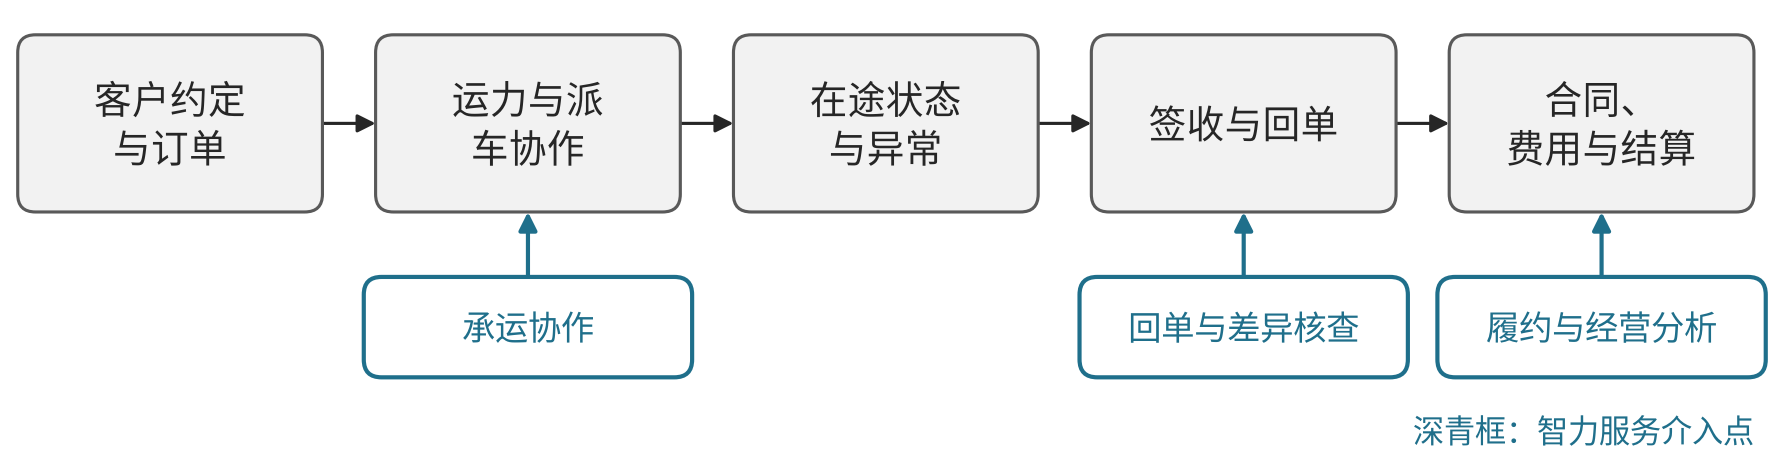
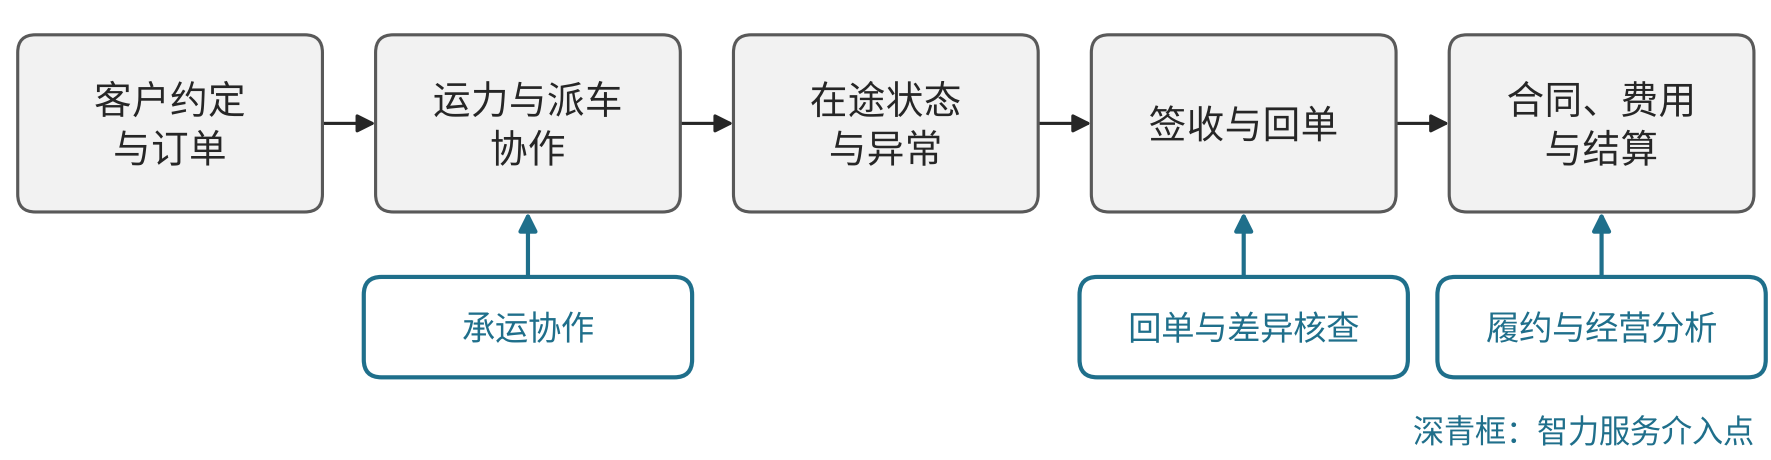
图示：框内文字碰撞检测与按词换行，修正23张图；I01指引句移到“占20.9%。[2]”后

Changed region(s): [[0.8385, 0.1826, 0.9627, 0.3652], [0.2484, 0.1826, 0.3727, 0.3652]]

diff --git a/scripts/figures/figlib.py b/scripts/figures/figlib.py
@@ -22,21 +22,47 @@ plt.rcParams['font.family'] = FONT
 plt.rcParams['axes.unicode_minus'] = False
 
 
+ISSUES = []          # 渲染后仍溢出的文字，由 render.py 汇总
+MIN_FS = 7.0         # 自动缩字号下限 pt
+PAD = 0.08           # 文字距框边最小留白 cm
+
+
+def max_chars(width_cm, fs=FS):
+    """框内一行可容纳的最大字数（中文按全角字宽≈字号计，留 8% 余量）。"""
+    return max(2, int(width_cm / (fs * CM_PER_PT * 1.08)))
+
+
+try:
+    import jieba; jieba.setLogLevel(60)
+    for w in ('派车', '差异', '委托', '智力服务', '维保', '一张图', '台账', '工单', '回款', '复核', '业主单位', '立体库', '消防救援机构'): jieba.add_word(w)
+    def _tokens(t): return list(jieba.cut(t))
+except ImportError:                       # 无 jieba 时退回逐字
+    def _tokens(t): return list(t)
+NO_HEAD = '、，。：；）」』”’！？%·／'      # 不能出现在行首的字符
+NO_TAIL = '（「『“‘'                       # 不能出现在行尾的字符
+
+
 def wrap(text, width_cm, fs=FS):
-    """按框宽自动折行（中文按字计），保留手工 \n。"""
-    n = max(2, int(width_cm / (fs * CM_PER_PT * 1.08)))
+    """按框宽折行：按词断（jieba），各行尽量等长，保留手工 \n；单词超过一行时才逐字拆。"""
+    n = max_chars(width_cm, fs)
     out = []
     for part in text.split('\n'):
         if len(part) <= n: out.append(part); continue
-        k = math.ceil(len(part) / n); L = math.ceil(len(part) / k)
-        while len(part) > n:
-            cut = L
-            for d in (0, 1, -1, 2, -2):          # 尽量在标点后断行
-                c = L + d
-                if 0 < c < len(part) and part[c - 1] in '、，：／）':
-                    cut = c; break
-            out.append(part[:cut]); part = part[cut:]
-        if part: out.append(part)
+        toks = []
+        for t in _tokens(part):
+            if toks and (t[0] in NO_HEAD or toks[-1][-1] in NO_TAIL): toks[-1] += t
+            elif len(t) > n: toks += list(t)
+            else: toks.append(t)
+        k = math.ceil(len(part) / n)
+        while True:
+            L = math.ceil(len(part) / k); lines = ['']
+            for t in toks:
+                cur = lines[-1]
+                if cur and (len(cur) + len(t) > n or (len(cur) >= L and len(lines) < k)): lines.append(t)
+                else: lines[-1] = cur + t
+            if all(len(x) <= n for x in lines) or k > len(part): break
+            k += 1
+        out += lines
     return '\n'.join(out)
 
 
@@ -46,6 +72,29 @@ class Fig:
         self.fig = plt.figure(figsize=(W / 2.54, h / 2.54), dpi=DPI)
         self.ax = self.fig.add_axes([0, 0, 1, 1])
         self.ax.set_xlim(0, W); self.ax.set_ylim(0, h); self.ax.axis('off')
+        self.boxed = []
+
+    def _ext(self, a, r):
+        """文字外框（cm 坐标）。"""
+        bb = a.get_window_extent(r).transformed(self.ax.transData.inverted())
+        return bb.x0, bb.y0, bb.x1, bb.y1
+
+    def fit(self, name=''):
+        """碰撞检测：框内文字超出框（留 PAD）则重新折行并逐级缩字号；仍超出或越出画布则记入 ISSUES。"""
+        r = self.fig.canvas.get_renderer()
+        for a, (x, y, w, h), text, wrapw in self.boxed:
+            def bad():
+                x0, y0, x1, y1 = self._ext(a, r)
+                return x0 < x + PAD or x1 > x + w - PAD or y0 < y + PAD or y1 > y + h - PAD
+            fs = a.get_fontsize()
+            while bad() and fs > MIN_FS:
+                fs = max(MIN_FS, fs - 0.5); a.set_fontsize(fs)
+                if wrapw: a.set_text(wrap(text, w - 0.25, fs))
+            if bad(): ISSUES.append(f'{name}: 框内文字放不下（已缩到 {fs}pt）：{text}')
+        for a in self.ax.texts:
+            x0, y0, x1, y1 = self._ext(a, r)
+            if x0 < 0 or y0 < 0 or x1 > W or y1 > self.h:
+                ISSUES.append(f'{name}: 文字越出画布：{a.get_text()!r}')
 
     def box(self, x, y, w, h, text, accent=False, fill=None, fs=FS, bold=False, wrapw=True, align='center'):
         """(x, y) 为左下角。"""
@@ -54,9 +103,10 @@ class Fig:
                            fc=fill or (ACC_FILL if accent else FILL), zorder=2)
         self.ax.add_patch(p)
         t = wrap(text, w - 0.25, fs) if wrapw else text
-        self.ax.text(x + w / 2 if align == 'center' else x + 0.15, y + h / 2, t, ha=align, va='center',
+        a = self.ax.text(x + w / 2 if align == 'center' else x + 0.15, y + h / 2, t, ha=align, va='center',
                      fontsize=fs, color=ACCENT if accent else INK, linespacing=1.3,
                      fontweight='bold' if bold else 'normal', zorder=3)
+        if text: self.boxed.append((a, (x, y, w, h), text, wrapw))
         return (x, y, w, h)
 
     def text(self, x, y, s, fs=FS, color=INK, ha='center', va='center', bold=False, **kw):
@@ -180,7 +230,7 @@ def cycle(steps, center=None, r=2.5, bw=3.4, bh=0.95):
 
 def hbar(labels, values, texts, xlabel, xmax=None, h=5.0, accent_idx=None):
     fig = plt.figure(figsize=(W / 2.54, h / 2.54), dpi=DPI)
-    ax = fig.add_axes([0.30, 0.24, 0.62, 0.70])
+    ax = fig.add_axes([0.30, 0.29, 0.62, 0.66])
     ys = list(range(len(labels)))[::-1]
     cols = [ACCENT if (accent_idx is None or i in accent_idx) else '#8C8C8C' for i in range(len(labels))]
     ax.barh(ys, values, color=cols, height=0.55)
@@ -196,7 +246,7 @@ def hbar(labels, values, texts, xlabel, xmax=None, h=5.0, accent_idx=None):
 
 def vbar(labels, values, texts, ylabel, ymax=None, h=6.0, colors=None):
     fig = plt.figure(figsize=(W / 2.54, h / 2.54), dpi=DPI)
-    ax = fig.add_axes([0.14, 0.14, 0.8, 0.8])
+    ax = fig.add_axes([0.17, 0.16, 0.78, 0.76])
     xs = range(len(labels))
     ax.bar(xs, values, color=colors or [ACCENT] * len(values), width=0.5)
     for x, v, t in zip(xs, values, texts):

diff --git a/scripts/figures/render.py b/scripts/figures/render.py
@@ -2,10 +2,25 @@
 import sys, pathlib
 sys.path.insert(0, str(pathlib.Path(__file__).parent))
 from specs import FIGS
+import figlib
 ROOT = pathlib.Path(__file__).resolve().parents[2]
 for s in FIGS:
     out = ROOT / s['vol'] / 'assets' / s['file']; out.parent.mkdir(exist_ok=True)
     f = s['draw']()
-    if hasattr(f, 'save'): f.save(out)
-    else: f.savefig(out, dpi=300, facecolor='white'); __import__('matplotlib.pyplot').pyplot.close(f)
+    if hasattr(f, 'save'): f.fit(s['id']); f.save(out)
+    else:
+        f.canvas.draw(); rr = f.canvas.get_renderer(); fb = f.bbox
+        hidden = set()
+        for ax in f.axes:
+            for axis, lim in ((ax.xaxis, ax.get_xlim()), (ax.yaxis, ax.get_ylim())):
+                for loc, lab in zip(axis.get_ticklocs(), axis.get_ticklabels()):
+                    if not (min(lim) - 1e-9 <= loc <= max(lim) + 1e-9): hidden.add(id(lab))
+        for t in f.findobj(__import__('matplotlib.text', fromlist=['Text']).Text):
+            if not t.get_visible() or not t.get_text() or id(t) in hidden: continue
+            e = t.get_window_extent(rr)
+            if e.x0 < fb.x0 - 1 or e.y0 < fb.y0 - 1 or e.x1 > fb.x1 + 1 or e.y1 > fb.y1 + 1: figlib.ISSUES.append(f"{s['id']}: 文字越出画布：{t.get_text()!r}")
+        f.savefig(out, dpi=300, facecolor='white'); __import__('matplotlib.pyplot').pyplot.close(f)
     print(s['id'], out.relative_to(ROOT))
+
+rep = ROOT.parent / 'figures' / 'overflow-report.txt'
+print('\n'.join(figlib.ISSUES) or '无残留溢出')

diff --git a/中册-行业解决方案/I01-软件与信息技术服务.md b/中册-行业解决方案/I01-软件与信息技术服务.md
@@ -52,7 +52,7 @@
 
 ### 6. 政策方向与关键指标：用同口径数据检验建设效果
 
-工业和信息化部运行监测协调局数据显示，2025年我国软件业务收入154831亿元，同比增长13.2%；其中信息技术服务收入106366亿元，占全行业收入的68.7%，软件产品收入32361亿元，占20.9%。[2] 服务收入占比高，说明多数企业的价值实现依赖部署、集成和运维等持续交付，而不只是交付代码。工业和信息化部办公厅2026年7月公布285项2025年人工智能应用典型案例，其中包括面向企业研发场景的AI编程平台等软件研发类案例。[3]见{{fig:2025年软件业务收入构成}}。
+工业和信息化部运行监测协调局数据显示，2025年我国软件业务收入154831亿元，同比增长13.2%；其中信息技术服务收入106366亿元，占全行业收入的68.7%，软件产品收入32361亿元，占20.9%。[2]见{{fig:2025年软件业务收入构成}}。 服务收入占比高，说明多数企业的价值实现依赖部署、集成和运维等持续交付，而不只是交付代码。工业和信息化部办公厅2026年7月公布285项2025年人工智能应用典型案例，其中包括面向企业研发场景的AI编程平台等软件研发类案例。[3]
 
 ![2025年软件业务收入构成](assets/fig-I01-2-软件业务收入构成.png)
 
